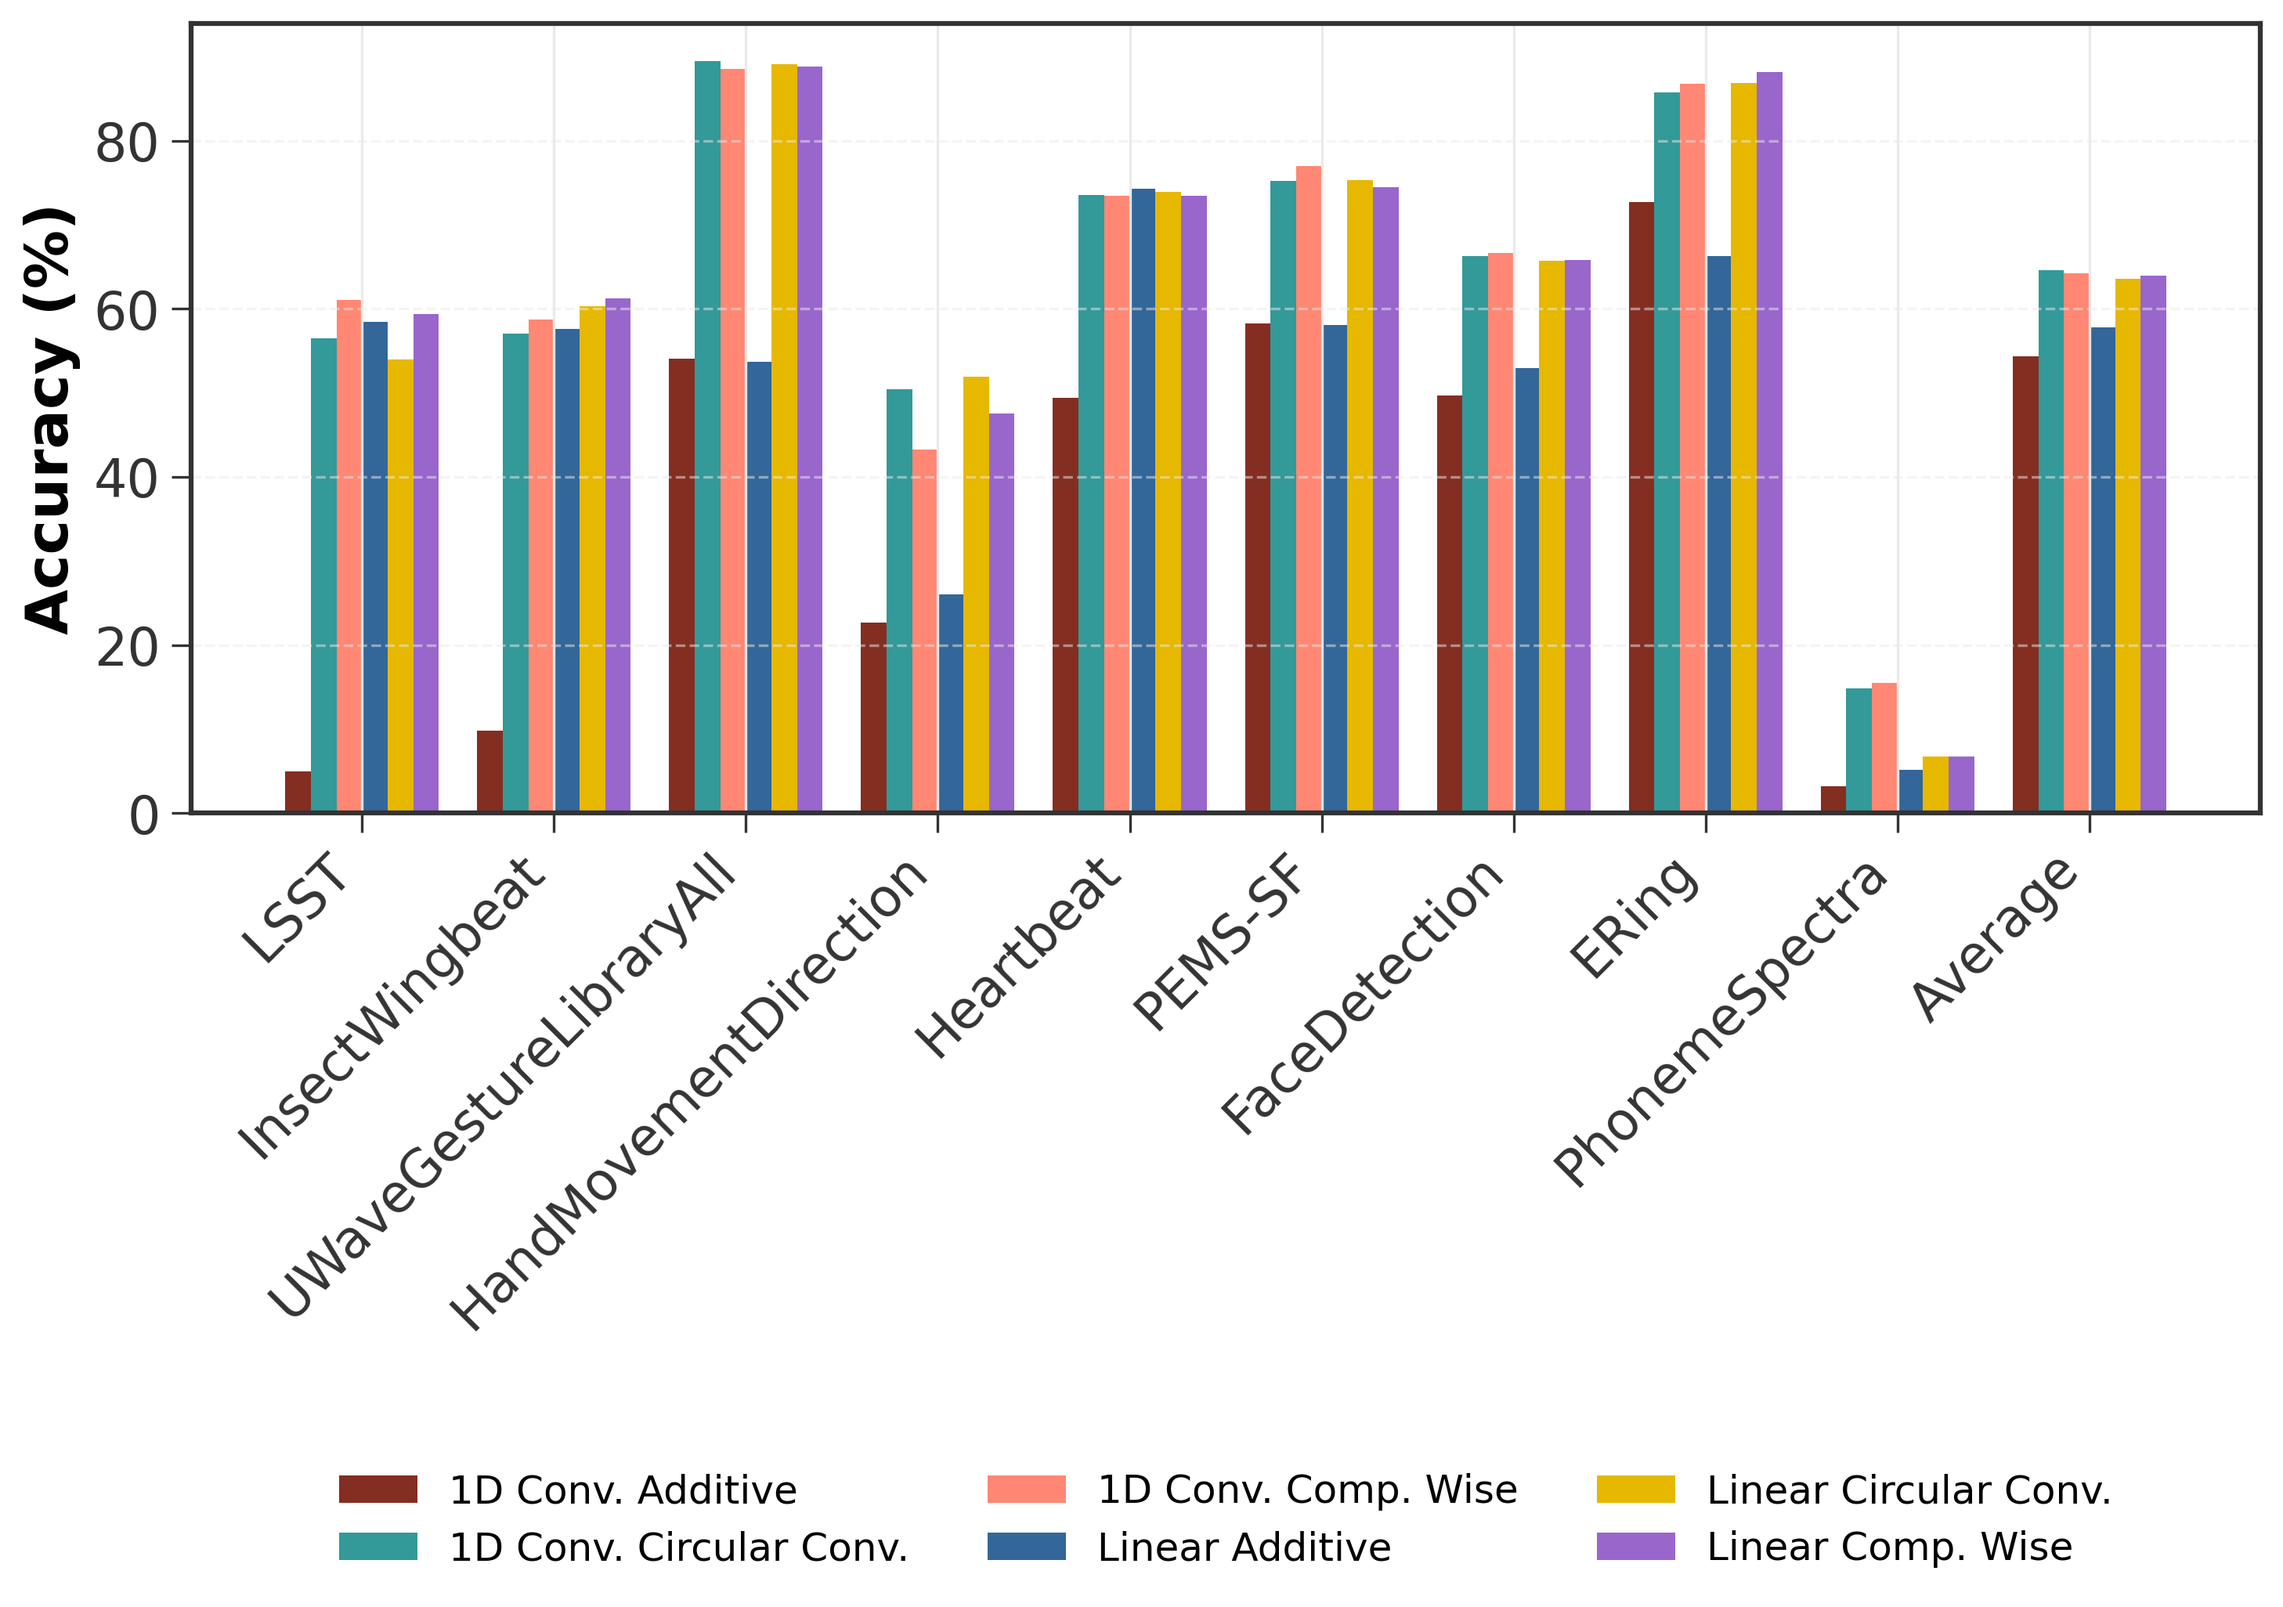
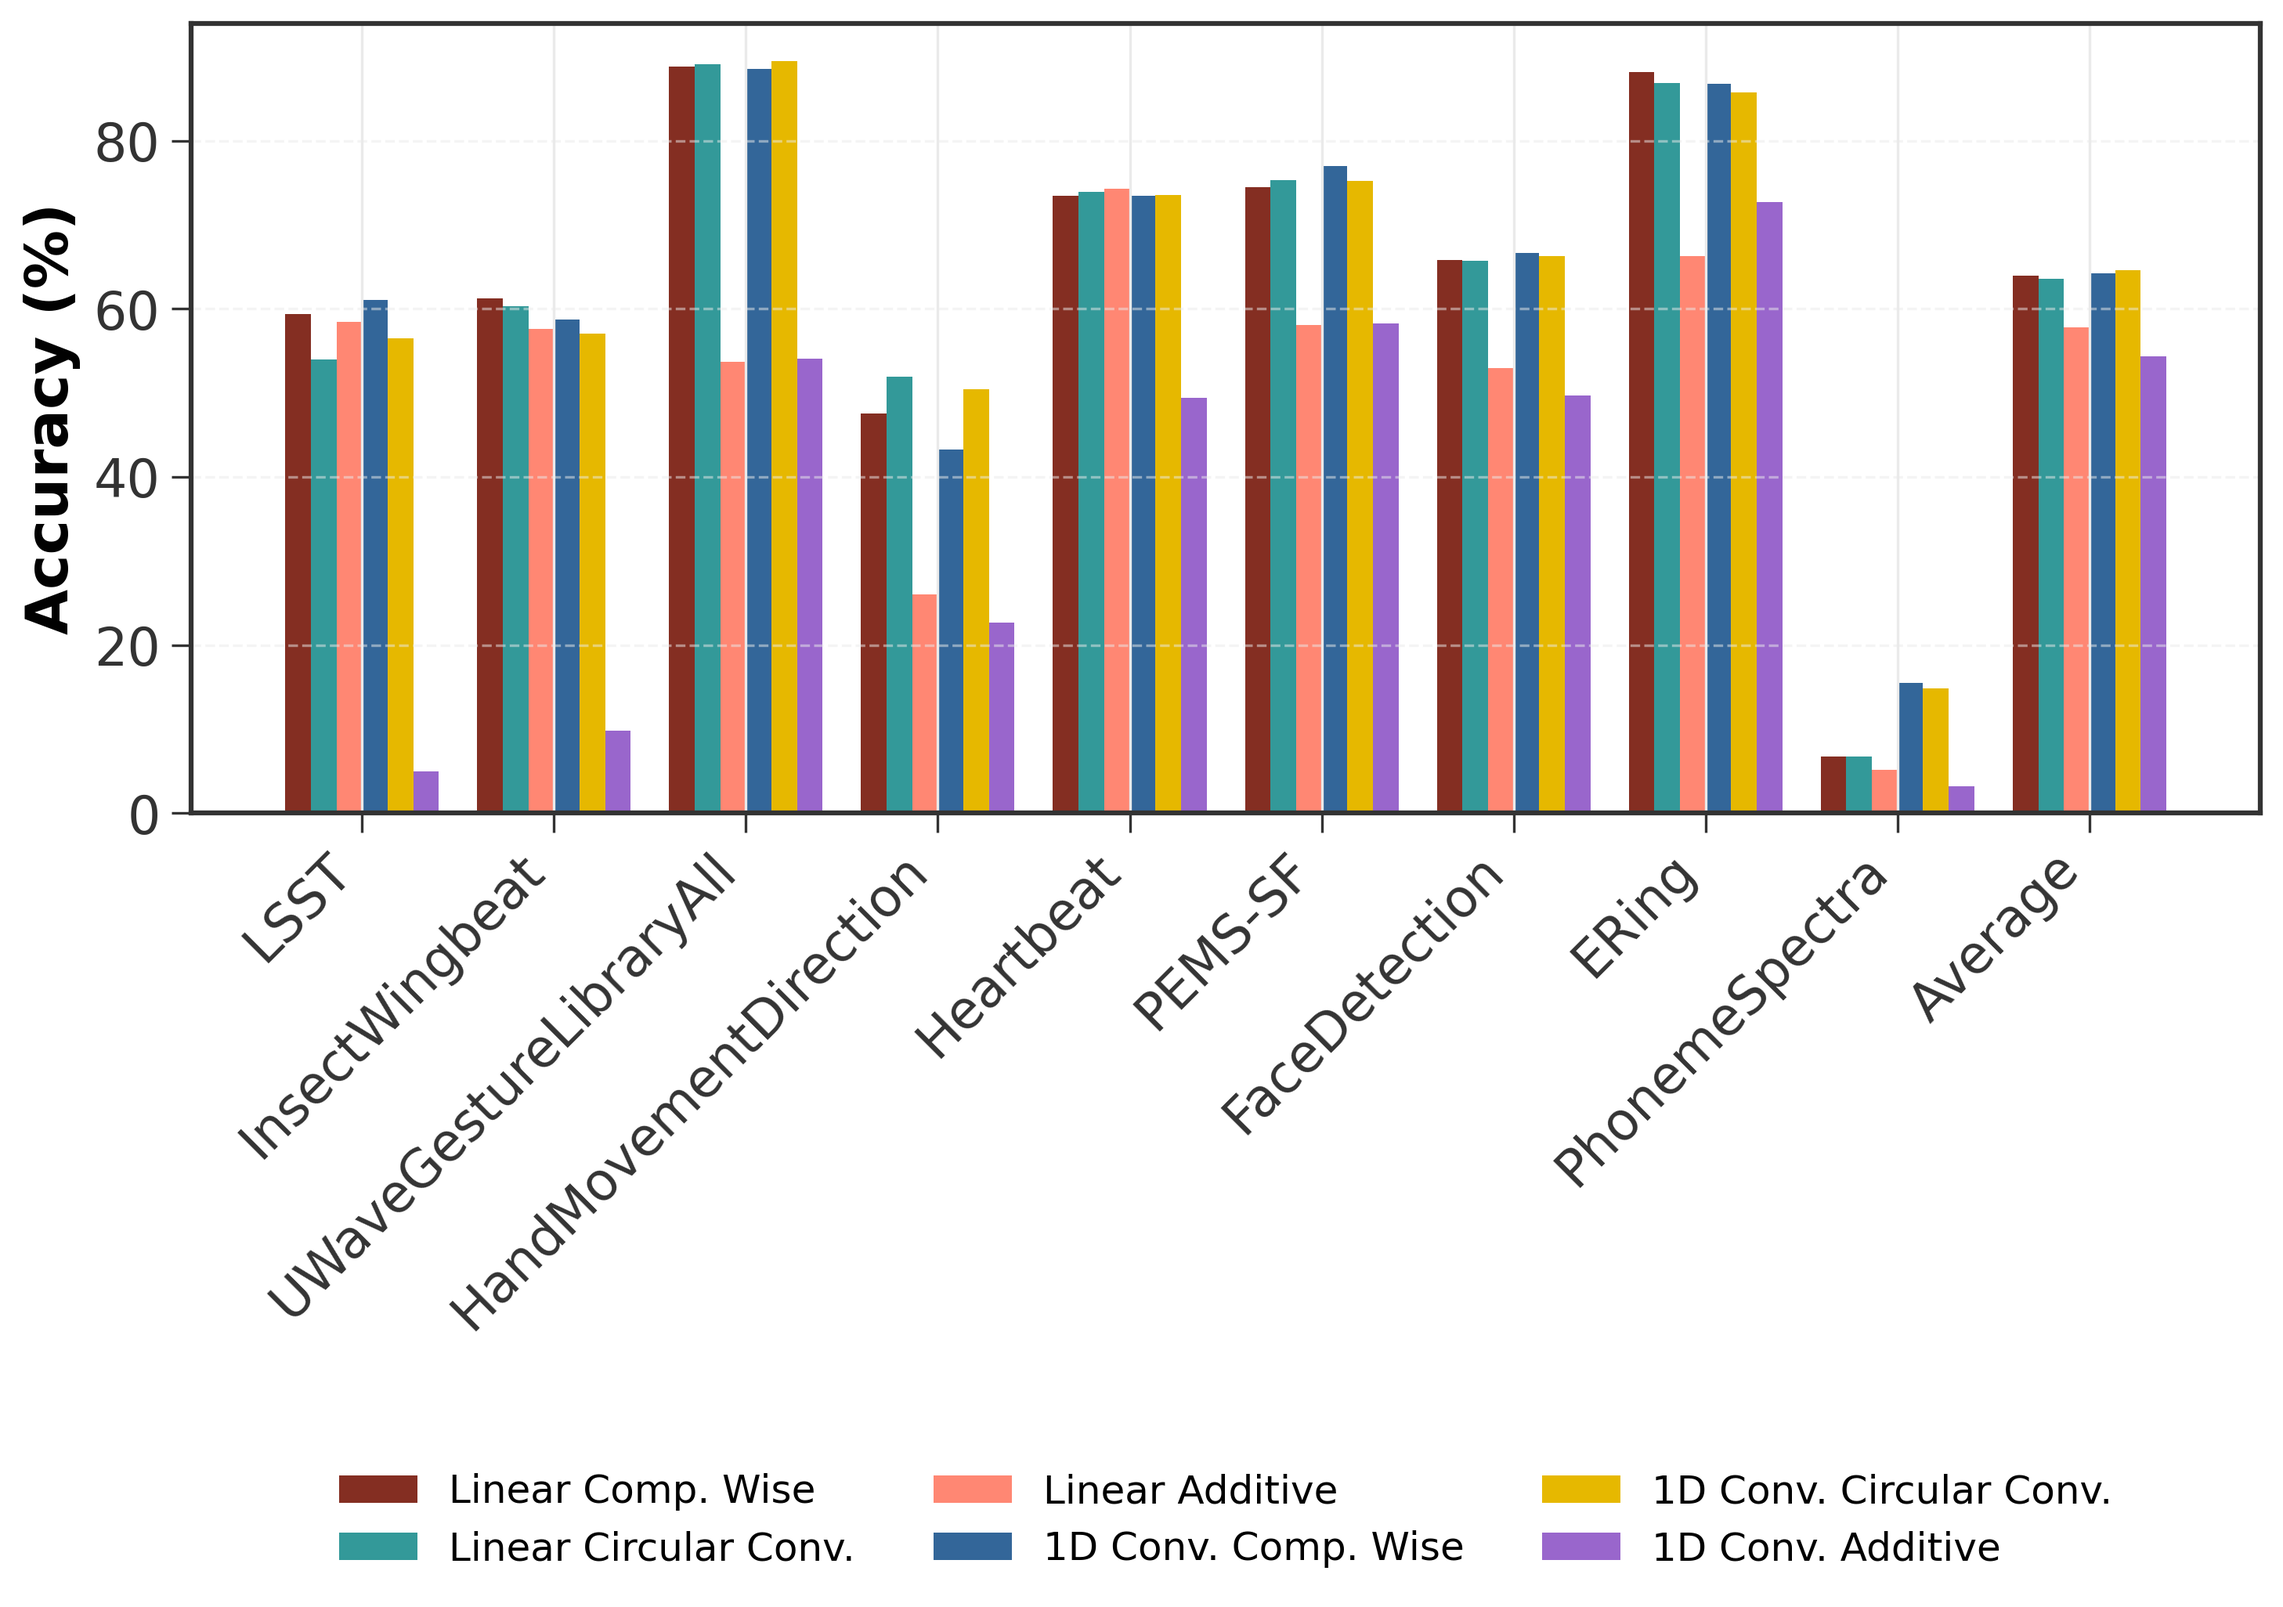
improved model order and include average in plots

diff --git a/src/experiments/visualization/paper.py b/src/experiments/visualization/paper.py
@@ -145,14 +145,20 @@ def plot_bar_dataset_acc(
 
     # Check if these columns exist to avoid errors
     if target_model_1 in metrics_.columns and target_model_2 in metrics_.columns:
+
+        # Separate out the Average row for later re-insertion
+        avg = metrics_[metrics_.index == "Average"]
+        metrics_ = metrics_[metrics_.index != "Average"]
+
         # Calculate absolute difference
         metrics_["_diff"] = (metrics_[target_model_1] - metrics_[target_model_2]).abs()
 
         # Sort descending
         metrics_ = metrics_.sort_values(by="_diff", ascending=False)
 
-        # Select top N datasets
+        # Select top N datasets + Average
         metrics_ = metrics_.head(top_n)
+        metrics_ = pandas.concat([metrics_, avg])
 
         # Remove the temporary diff column so it doesn't get plotted
         metrics_.drop(columns=["_diff"], inplace=True)
@@ -343,7 +349,7 @@ def plot_paper_diagrams(
     naming_mapping: dict | None = None,
     models: list | None = None,
     target_models: tuple = ("none", "none"),
-    top_n: int = 10,
+    top_n: int = 9,
 ) -> None:
     """Plot the CD diagram for a given experiment.
 
@@ -359,7 +365,8 @@ def plot_paper_diagrams(
             models. Defaults to None.
         target_models (tuple): Tuple of two model names to calculate divergence for selecting top datasets. Defaults to
             ("none", "none"), which means no sorting by divergence.
-        top_n (int): Number of top datasets to plot based on divergence between two target models. Defaults to 10.
+        top_n (int): Number of top datasets to plot based on divergence between two target models. Defaults to 9. It
+            adds the "Average" of all datasets automatically.
     """
     # Metrics by dataset
     metrics_by_dataset = get_metrics(exp_dataset_metrics)
@@ -382,7 +389,7 @@ def plot_paper_diagrams(
     if models is not None:
         # Filter to include only specified models
         metrics_by_model = metrics_by_model[metrics_by_model["model"].isin(models)]
-        metrics_by_dataset = metrics_by_dataset[[col for col in metrics_by_dataset.columns if col in models]]
+        metrics_by_dataset = metrics_by_dataset[[col for col in models if col in metrics_by_dataset.columns]]
 
     # Define the output path for the CD diagram
     plot_path = Config.plot_dir / "experiment" / plot_name
@@ -434,7 +441,7 @@ if __name__ == "__main__":
             "plot_name": f"{exp1_dir_name}/binding_v1_CD.png",
             "exp_dataset_metrics": exp_results_dir / exp1_dir_name / "summary_dataset_results.csv",
             "exp_model_metrics": exp_results_dir / exp1_dir_name / "summary_model_metrics_binding_version_1.csv",
-            "top_n": 10,
+            "top_n": 9,
             "naming_mapping": {"Sinusoidal": ""},
             "models": [
                 "Linear Comp. Wise",
@@ -450,12 +457,29 @@ if __name__ == "__main__":
                 "1D Conv. Additive": ["1D Conv. Comp. Wise", "1D Conv. Circular Conv."],
             },
         },
-        {
-            "experiment_name": "Experiment 4 Component Wise",
-            "plot_name": f"{exp4_comp_dir_name}/component_wise_1_CD.png",
-            "exp_dataset_metrics": exp_results_dir / exp4_comp_dir_name / "summary_dataset_results.csv",
-            "exp_model_metrics": exp_results_dir / exp4_comp_dir_name / "",
-        },
+        # {
+        #     "experiment_name": "Experiment 4 Component Wise",
+        #     "plot_name": f"{exp4_comp_dir_name}/component_wise_1_CD.png",
+        #     "exp_dataset_metrics": exp_results_dir / exp4_comp_dir_name / "summary_dataset_results.csv",
+        #     "exp_model_metrics": exp_results_dir / exp4_comp_dir_name / "summary_model_metrics_pe_a_version_1.csv",
+        #     "top_n": 9,
+        #     "naming_mapping": {
+        #         "Linear": "", "Comp. Wise": "", "No Pe": "Null", "1 Sinc Fpe": "Sinc 1 FPE", "2 Sinc Fpe": "Sinc 2 FPE",
+        #         "5 Sinc Fpe": "Sinc 5 FPE", "Random Pe": "Random"
+        #     },
+        #     "models": [
+        #         "Null",
+        #         "Random",
+        #         "Sinusoidal",
+        #         "Sinc 1 FPE",
+        #         "Sinc 2 FPE",
+        #         "Sinc 5 FPE",
+        #     ],
+        #     "target_models": ("Sinc 1 FPE", "Null"),
+        #     "baseline_conf": {
+        #         "Null": ["Random", "Sinusoidal", "Sinc 1 FPE", "Sinc 2 FPE", "Sinc 5 FPE"],
+        #     },
+        # },
         # {
         #     "experiment_name": "Experiment 4 CConv",
         #     "plot_name": f"{exp4_cconv_dir_name}/cconv_1_CD.png",
